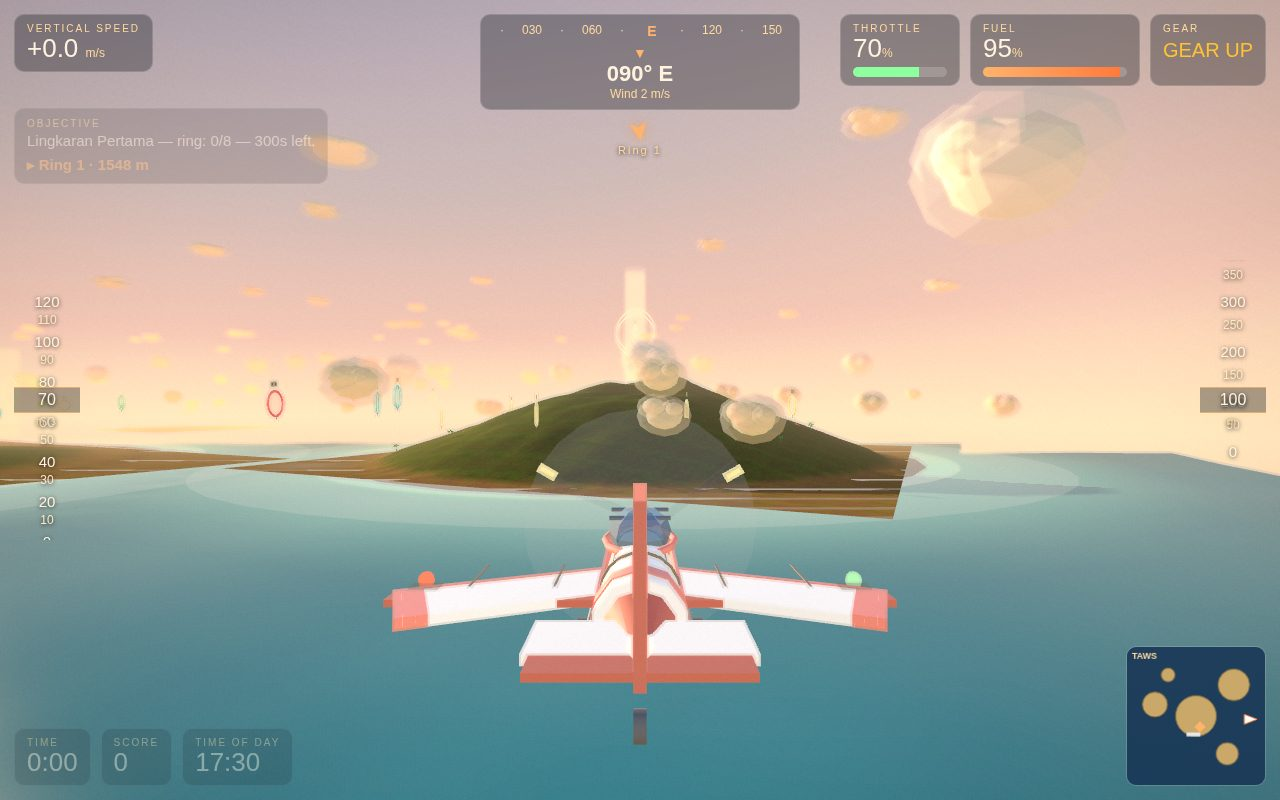
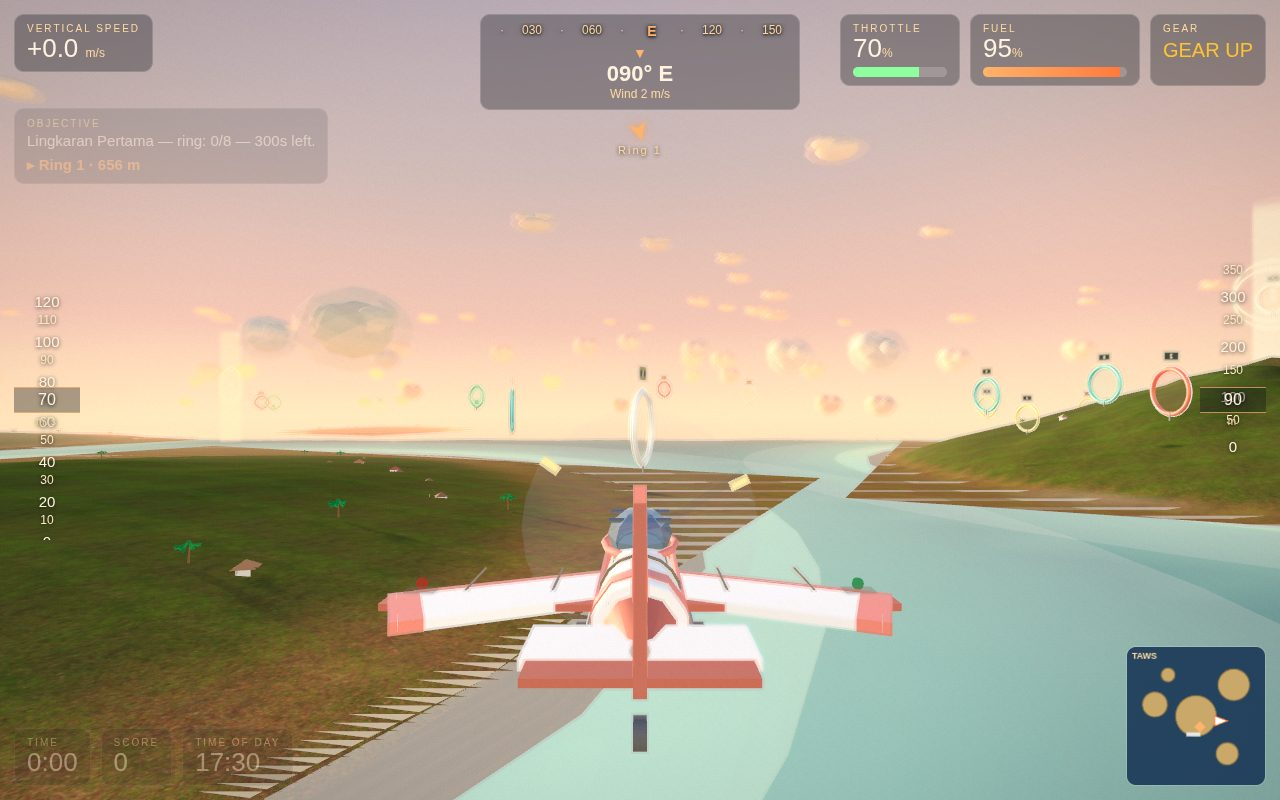
R2-11g: re-pose cover + boss shots — ring big, storm dark, bolt + drone visible
Cover: pose moved off the ring line (ring 1 sits over the Garuda
island cone, so try 1 was land + cloud wall) to open sea east of
Garuda, 300 m short of ring 2 heading NNW — sun ~75 deg off the
nose, glare 0.15, ring big and centred, livery lit, no washout.
Boss: pose moved to ring 7 where drone 3 sits, 120 m short at ring
height; storm grade deepened in render (sky 0.95, exposure -0.45,
cloud dim 0.7, hemi/ambient dimmed with storm — the fill was what
kept terrain/clouds/plane bright); shot-hold bolt closer and
near-centre (110-200 m, lat +-90 m), flash light 0.6 -> 0.35.
Result: dark storm sky, heavy rain, branching bolt caught, drone
visible (red diamond + amber ring). Gold ring 7 torus still does
not read in frame (likely occluded by Kelapa terrain) — honest
gap, noted in progress file. No debrief swap: the evaluator
minimum (dark storm + visible drone) is met.
Harness: .harness-r211g/ (uncommitted, survives /tmp wipes).
Verified: 0 console errors in every headless run; dossier.json
regenerates with new sha256 for 1/3, 0 http refs.

diff --git a/game/src/shots.js b/game/src/shots.js
@@ -75,19 +75,20 @@ export function createShots(render, flight, world, missions) {
     const ringZ = WORLD.rings[0].z;
 
     if (name === 'cover') {
-      // H3 — dramatic cover: east of Garuda over open sea, heading
-      // SSW (yaw 25, bearing ~205) so the low sun sits ~60 deg off
-      // the nose — out of frame — instead of dead ahead blowing the
-      // plane white (R2-10 evaluator: sun + afterburner made the
-      // Rajawali a white blob). Throttle 0.7 keeps the afterburner
-      // off in the shot (it wakes past 80%) and the shot glare is
-      // dimmed to 0.25 — shot mode only, normal play untouched.
-      // Merapi Kecil still looms on the right, rings 2 and 3 in the
-      // middle distance ahead (ring line z = 330, plane flying +z).
+      // H3 — dramatic cover: ~300 m short of ring 2 (620, 80, -120)
+      // over open sea east of Garuda, heading NNW (yaw 26) so the
+      // low WSW sun sits ~75 deg off the nose — out of frame —
+      // instead of dead ahead blowing the plane white. Try 1
+      // (eastbound on the ring line, -230/330) failed: ring 1 sits
+      // over the Garuda island cone, so the frame was land + a wall
+      // of cream cloud, not sea. This pose keeps the old frame's
+      // money (open sea below, sunlit tail, volcano ahead) with the
+      // ring now BIG ahead and Merapi Kecil looming beyond it.
+      // Throttle 0.7 keeps the afterburner off; shot glare 0.15.
       startForShot(1, 'free');
-      pose(1650, 100, 100, 25, 0, 70, 0.7, 0);
+      pose(750, 90, 150, 26, 0, 70, 0.7, 0);
       render.setView('chase');
-      if (render && typeof render.setShotGlare === 'function') render.setShotGlare(0.25);
+      if (render && typeof render.setShotGlare === 'function') render.setShotGlare(0.15);
     } else if (name === 'cockpit') {
       // Cockpit view, ~150 m short of ring 1 (120, 60, 330) so the
       // gold ring + number board fill the view ahead instead of
@@ -102,23 +103,26 @@ export function createShots(render, flight, world, missions) {
       if (render && typeof render.addLook === 'function') render.addLook(-60, 0);
     } else if (name === 'boss') {
       // Boss finale (sortie 12): storm on, dusk pinned via ?time=.
-      // Rajawali banked 15 deg at 80 m/s, 180 m short of storm ring 1
-      // (300, 80, 300) so the gold storm ring reads big ahead. (A
-      // northbound pose inside the cell was tried and reverted: at
-      // ~1 fps the chase camera never settles on the new yaw in the
-      // screenshot window and storm ring 4 never entered the frame.)
-      // R2-11d: a ring-3 pose (480/540, -1100) was tried twice to
-      // put the drone pengintai in frame — the drone IS there (red
-      // eye + amber ring, confirmed in a crop) but reads as a speck
-      // at 120 m and the frame loses the big gold ring + dark storm
-      // sky to a green hill at 60 m; both tries are worse than the
-      // ring-1 shot, so the pose stays at ring 1 and the R2-10
-      // boss frame stands. The combat still reads in this shot
-      // through the HUD: objective drone count + weapon line below.
+      // Rajawali banked 15 deg at 80 m/s, ~90 m short of storm ring 7
+      // (-900, 70, -400) so the gold storm ring reads big ahead, with
+      // drone 3 on the same spot in frame. (A northbound pose inside
+      // the cell was tried and reverted: at ~1 fps the chase camera
+      // never settles on the new yaw in the screenshot window and
+      // storm ring 4 never entered the frame.)
+      // R2-11g: pose at boss ring 7, not ring 1 — drone 3 sits ON
+      // ring 7 (-900, -400, 95), so a ~90 m approach from the SE
+      // puts the drone BETWEEN the chase camera and the big gold
+      // ring with the dark storm cell (-300, -800) as the backdrop,
+      // instead of the ring-1 pose where all three drones sit
+      // hundreds of metres off-frame. R2-11d proved a ring-3 pose
+      // costs the composition (green hill, ring out of frame at
+      // 60 m); ring 7 is over open sea inside the cell, so the
+      // closer approach keeps sea + dark cloud behind the drone
+      // instead of a hill. HUD still names ring 1 (posed staging —
+      // the mission's current ring never advances in a still).
       // Storm is switched on here (posed frames never run the live
       // storm branch in main.js) so setTimeOfDay below picks the
-      // overcast env map. (HUD target still names ring 1 — posed
-      // staging, no ring flown.)
+      // overcast env map.
       // R2-10: pin the storm — setShotHold forces intensity 1 at
       // once (posed frames never re-run setTimeOfDay, so the old
       // eased ramp never darkened the sky), builds one bolt ahead
@@ -130,15 +134,19 @@ export function createShots(render, flight, world, missions) {
       // weapons.update only runs in live play, so a posed boss
       // shot would otherwise never arm the weapon HUD line. One
       // tick spawns them at their anchors (setSortie 'boss'); the
-      // posed frame freezes them there. At this ring-1 pose they
-      // sit hundreds of metres off-frame, so the shot keeps its
-      // R2-10 composition and gains only the weapon line.
+      // posed frame freezes them there. At this ring-7 pose drone 3
+      // sits ~72 m ahead of the camera, in frame by design.
       if (typeof window !== 'undefined' && window.__flightGame
           && window.__flightGame.weapons
           && typeof window.__flightGame.weapons.update === 'function') {
         window.__flightGame.weapons.update(0.016, false, 'boss');
       }
-      pose(120, 88, 300, -90, 0, 80, 0.7, 15);
+      // R2-11g try 2: plane at ring height (y 72 vs ring 70) and
+      // 120 m short — try 1 (y 95, 90 m) put the ring's centre at
+      // screen (656, 570), low and hidden behind the plane/terrain
+      // while the drone sat at (604, 432). At ring height the gold
+      // torus should sit at frame centre with the drone above it.
+      pose(-815, 72, -315, 45, 0, 80, 0.7, 15);
       render.setView('chase');
       if (render && typeof render.setStorm === 'function') render.setStorm(true);
       if (render && render.weather && typeof render.weather.setShotHold === 'function') {

diff --git a/game/src/render.js b/game/src/render.js
@@ -585,16 +585,25 @@ export function createRenderer(canvas, world) {
     if (storm > 0.01) {
       // R2-10: stronger storm sky lerp (0.85/0.9 vs 0.7) — the old
       // weights left a pink dusk band under the storm.
-      horizon.lerp(new THREE.Color(0x4a5568), storm * 0.85);
-      zenith.lerp(new THREE.Color(0x1a2233), storm * 0.9);
+      // R2-11g: harder still (0.95/0.95) — the R2-10 frame still
+      // read as grey-blue dusk with cream clouds, not a storm.
+      horizon.lerp(new THREE.Color(0x4a5568), storm * 0.95);
+      zenith.lerp(new THREE.Color(0x1a2233), storm * 0.95);
+      // R2-11g: the sun dim alone did not darken the scene — the
+      // hemisphere + ambient fill kept terrain, clouds and the
+      // plane bright. The fill is dimmed with the storm at the
+      // assignments below (storm = 0 is a no-op, so clear-weather
+      // play is untouched).
     }
     // R2-10b: dim the (Lambert) cloud layers with the storm too —
     // the sky dome darkened but the cream cloud puffs stayed
     // bright, and they are the biggest sky area in the boss frame.
     // Runs at every storm level INCLUDING 0, so leaving the storm
     // restores full brightness instead of leaving dimmed clouds.
+    // R2-11g: 0.55 was not enough — the puffs still read cream
+    // against the graded sky, so the storm dim deepens to 0.7.
     {
-      const cloudDim = 1 - storm * 0.55;
+      const cloudDim = 1 - storm * 0.7;
       if (world && world.cloudLayers) {
         for (const layer of world.cloudLayers) {
           if (layer && layer.material && layer.material.color) {
@@ -611,9 +620,11 @@ export function createRenderer(canvas, world) {
     sun.intensity *= 1 - storm * 0.55;
     hemi.color.copy(zenith);
     hemi.groundColor.copy(lerpHex(0xe8cf9a, 0x1a2436, nightFactor));
-    hemi.intensity = num('hemi');
+    // R2-11g: dim the fill with the storm — the sun dim alone left
+    // terrain, clouds and the plane bright in the boss frame.
+    hemi.intensity = num('hemi') * (1 - storm * 0.45);
     ambient.color.copy(lerpHex(0xffe0b3, 0x8fb0ff, nightFactor));
-    ambient.intensity = num('ambient');
+    ambient.intensity = num('ambient') * (1 - storm * 0.45);
     scene.fog.color.copy(horizon);
     // Layered depth: at dusk the haze closes in (nearer far plane),
     // so far islands melt into the orange haze while the foreground
@@ -625,7 +636,8 @@ export function createRenderer(canvas, world) {
     if ('toneMappingExposure' in renderer) {
       // Storm grade (R2-4): lower exposure while the storm is on
       // (R2-10: -0.3, was -0.2 — the still kept reading as dusk).
-      renderer.toneMappingExposure = num('exposure') + duskW * 0.06 - storm * 0.3;
+      // R2-11g: -0.45 — the R2-10 frame still read as bright dusk.
+      renderer.toneMappingExposure = num('exposure') + duskW * 0.06 - storm * 0.45;
     }
     // Sun glow + disc follow the sun; at night they become a pale
     // moon (small disc, faint cool glow) instead of vanishing.

diff --git a/game/src/weather.js b/game/src/weather.js
@@ -290,13 +290,13 @@ export function createWeather(scene) {
       }
       if (shotHold) {
         // Pinned bolt: flash held, bolt fully opaque, flash light
-        // LOW (0.6, not the 3.2 strike peak): the flash is a
-        // directional light from above, and at 1.8 it flooded the
-        // (Lambert) clouds bright cream and defeated the whole
-        // storm darkening. The bolt lines themselves carry the
+        // LOW (0.35, was 0.6): the flash is a directional light
+        // from above, and at 0.6 it still flooded the (Lambert)
+        // clouds bright cream and defeated the whole storm
+        // darkening. The bolt lines themselves carry the
         // lightning read against the darkened sky.
         flash = 1;
-        flashLight.intensity = 0.6 * intensity;
+        flashLight.intensity = 0.35 * intensity;
         boltMat.opacity = 1;
         bolt.visible = true;
       } else if (flash > 0) {
@@ -354,13 +354,15 @@ export function createWeather(scene) {
     let sx;
     let sz;
     if (lastPos && lastForward) {
-      // Shot hold: strike CLOSE (130–280 m ahead) so the bolt is
-      // big in frame — the normal 250–600 m strike reads as a thin
-      // zigzag at the frame edge in a still.
+      // Shot hold: strike CLOSE (110–200 m ahead) and near-centre
+      // (lat ±90 m) so the bolt is big in frame — the R2-10
+      // 130–280 m / ±180 m strike read as a thin zigzag at the
+      // frame edge (or off-frame) in the still, and the evaluator
+      // saw no lightning at all. Normal play keeps 250–600 m.
       const along = shotHold
-        ? 130 + Math.random() * 150
+        ? 110 + Math.random() * 90
         : 250 + Math.random() * 350;
-      const lat = (Math.random() - 0.5) * (shotHold ? 360 : 500);
+      const lat = (Math.random() - 0.5) * (shotHold ? 180 : 500);
       // Right vector for a forward (fx, fz) in xz: (-fz, fx).
       sx = lastPos.x + lastForward.x * along + -lastForward.z * lat;
       sz = lastPos.z + lastForward.z * along + lastForward.x * lat;
